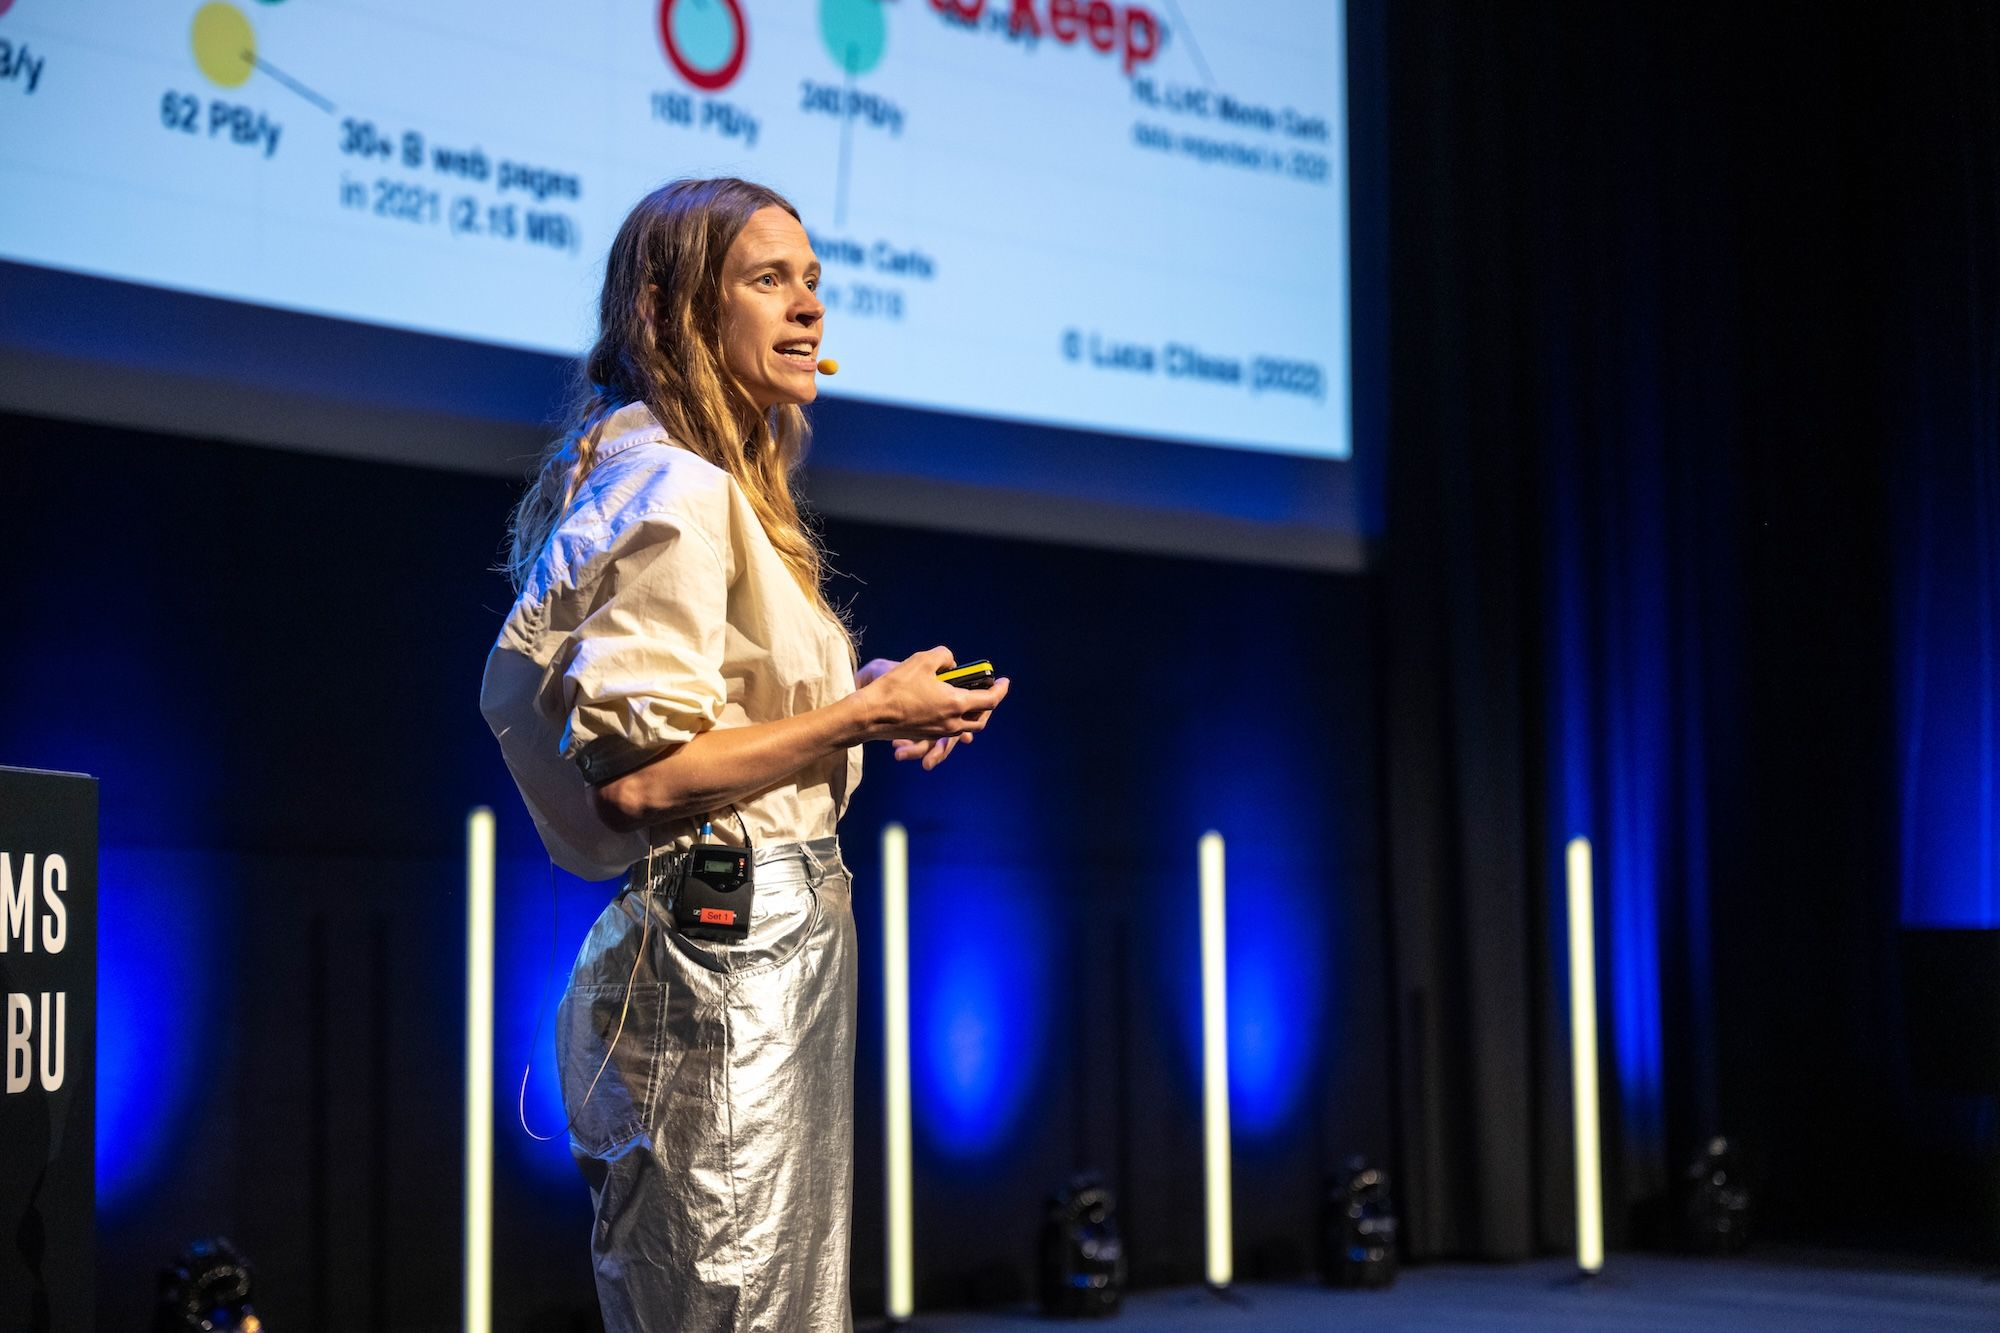
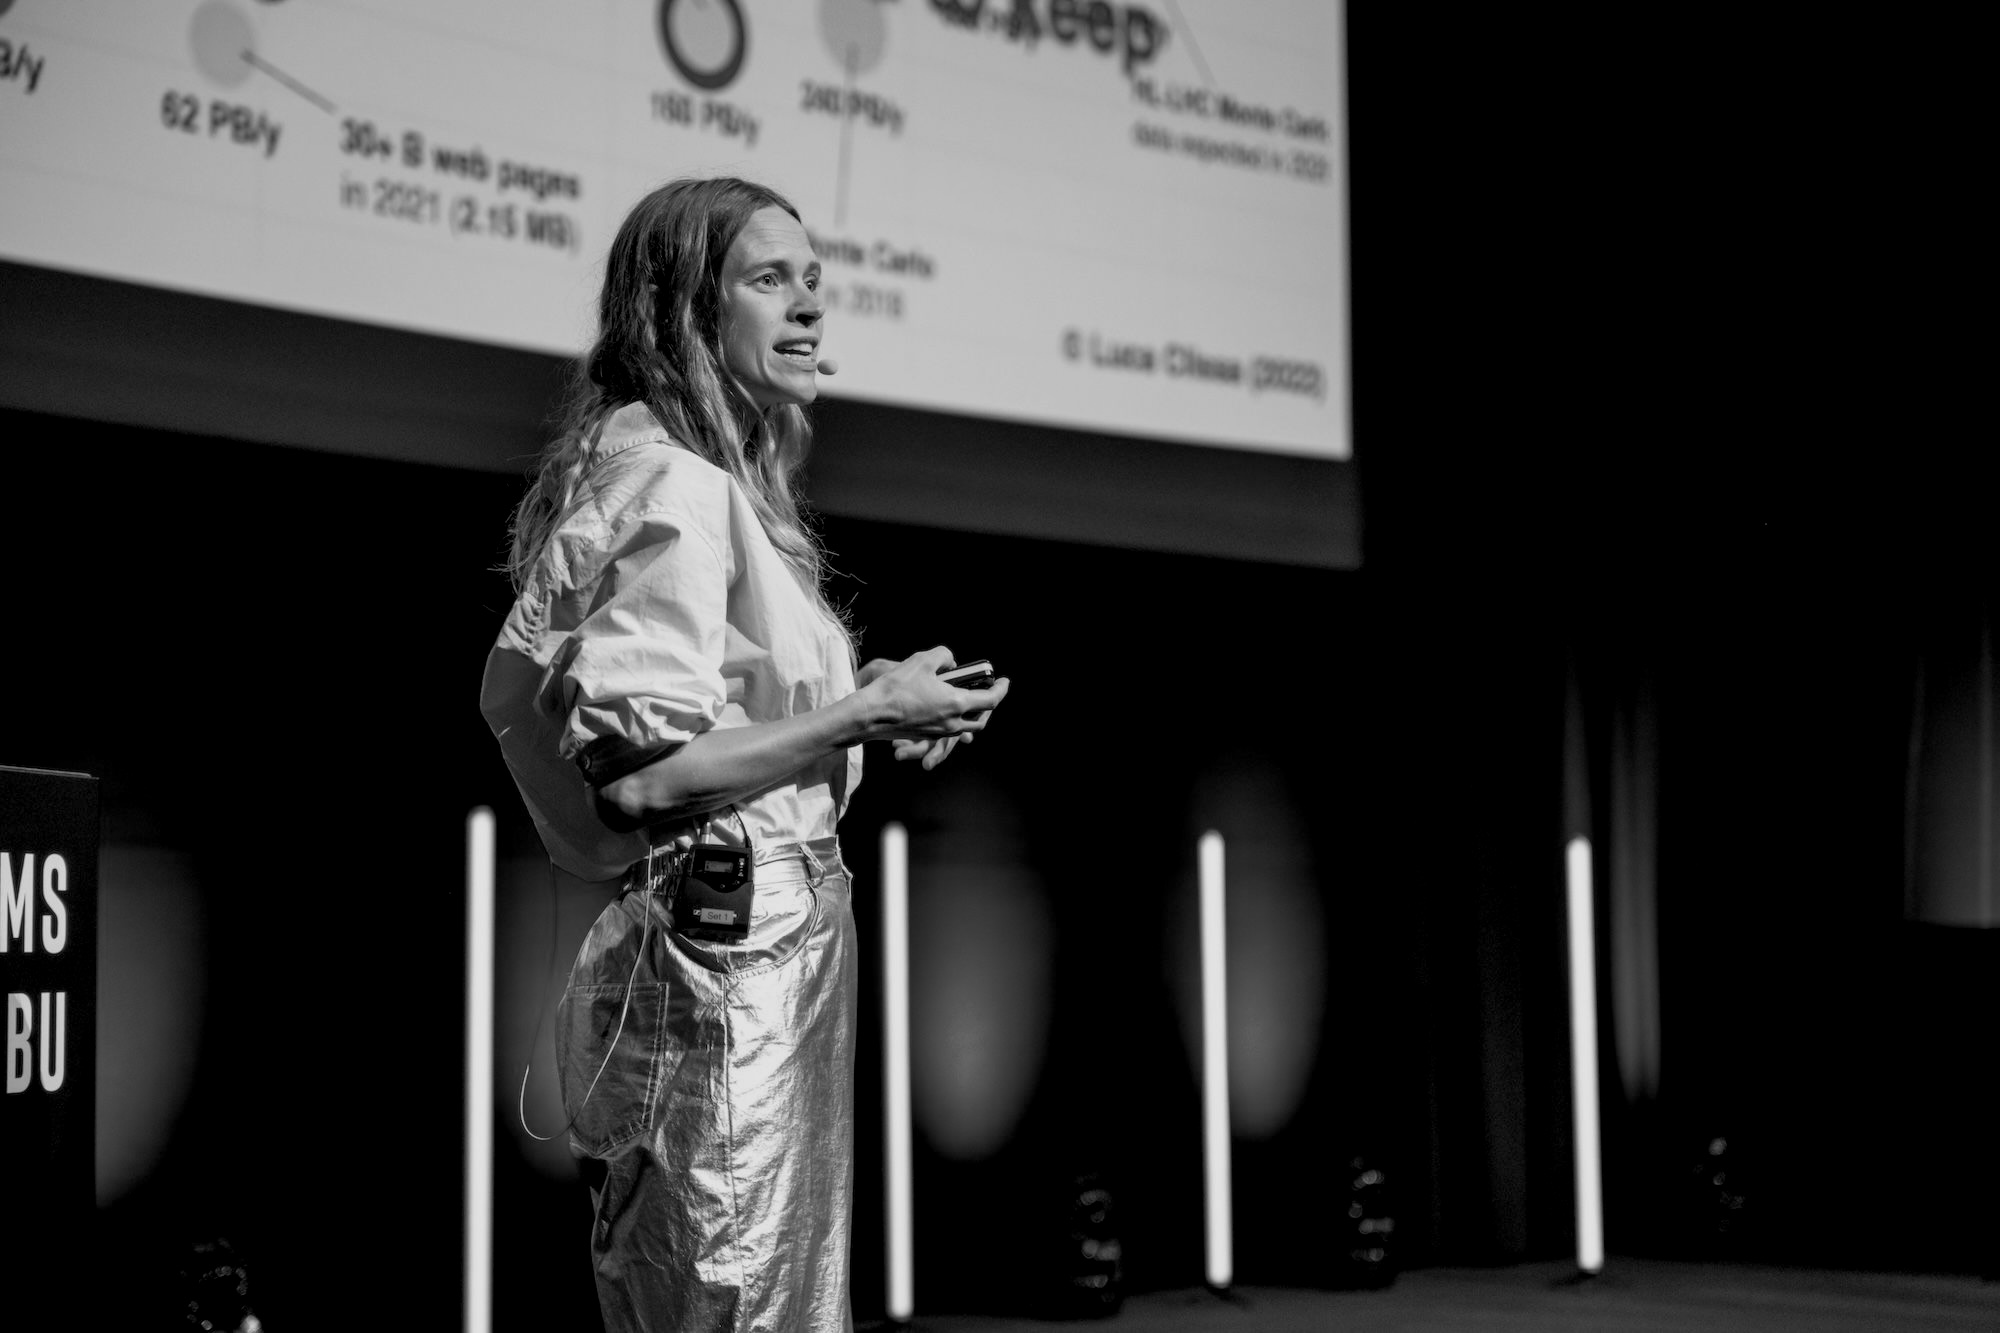
chaning colors

diff --git a/index.html b/index.html
@@ -33,16 +33,43 @@
 					<h2>About me</h2>
 				</header>
 				<p>
-					I am a particle physicst currently working as a senior research fellow at ETH Zurich and CERN. When I'm not buried in a book on the history of science or the philosophy of science,
-					I like to use Machine Learning to try to improve the way we collect and analyze data at the Large Hadron Collider.
-					My favorite topic is real-time Machine Learning, how we can use efficient ML to help us process enormous data rates (63 Tb/s) at LHC, within a latency of 12 microseconds (and often sub 100 ns!).
-					I also really like to think about, and develop, cool new methods for ML-based anomaly detection as a way of discovering New Physics (spoiler alert: haven't found anything yet!).
-					When I am not writing code or watching YouTube videos on Machine Learning, you can find me hunting for the nearest hill to go
-					<a href="https://utmb.world/runner/4471325.theaklaeboe.aarrestad">trail running</a>.
-					Working at a university, one of the things I value the most is to supervise students on projects, as well as give lectures and schools on ML and partice physics.
-					Don't be afraid to send me an e-mail (see below) if you have any questions or you would like to work together on a fun project!
-					<br /><br />
-				</p>
+          <p>
+  I am a particle physicist currently working as a senior research fellow at
+  <a href="https://ethz.ch/en.html" target="_blank" rel="noopener noreferrer">ETH Zurich</a>
+  and
+  <a href="https://home.cern/" target="_blank" rel="noopener noreferrer">CERN</a>.
+  When I’m not buried in a book on the history or philosophy of science, I like to use
+  Machine Learning to improve the way we collect and analyze data at the
+  <a href="https://home.cern/science/accelerators/large-hadron-collider" target="_blank" rel="noopener noreferrer">Large Hadron Collider</a>.
+</p>
+
+<p>
+  My favorite topic is <strong>real-time Machine Learning</strong>: how we can use efficient ML to process enormous data rates
+  (63 Tb/s!) at the LHC within a latency of 12 microseconds (and often sub-100 ns).
+  Yes, that’s faster than you can blink — several times over.
+</p>
+
+<p>
+  I also really enjoy developing ML-based <strong>anomaly detection</strong> methods as a way of discovering New Physics
+  (spoiler alert: haven’t found anything yet — but hope springs eternal).
+  Somewhere between physics, algorithms, and a healthy amount of V60 Geisha, I try to build tools that help us squeeze
+  every last bit of insight out of the universe’s smallest building blocks.
+</p>
+
+<p>
+  When I’m not writing code or watching YouTube videos about ML, you can usually find me hunting for the nearest hill
+  to go <a href="https://utmb.world/runner/4471325.theaklaeboe.aarrestad">trail running</a> — preferably in knee-deep mud.
+</p>
+
+<p>
+  Working at a university, one of the things I value most is supervising students and giving lectures and schools on ML
+  and particle physics. I’m always excited about new ideas, interdisciplinary collaborations, and ambitious student projects.
+</p>
+
+<p>
+  Don’t be afraid to <a href="mailto:thea.aarrestad@cern.ch">send me an email</a> if you have questions, want to collaborate on a fun project,
+  or just want to talk about physics, ML, or good trail-running shoes.
+</p>
 				<ul class="actions">
 					<li><a href="./CV.pdf" class="button">My CV</a></li>
 					<li><a href="https://codimd.web.cern.ch/s/KOdq-YKt1" class="button">Student projects</a></li>

diff --git a/assets/css/main.css b/assets/css/main.css
@@ -3258,3 +3258,46 @@ input[type="button"],
 #header a:hover {
   color: #fff !important;
 }
+
+/* =========================
+   LINK COLOR OVERRIDE
+   Stylish dark green
+   ========================= */
+
+/* Main link color (dark green) */
+a {
+  color: #1b5e20 !important;            /* deep, elegant green */
+  border-bottom-color: rgba(31, 111, 74, 0.45) !important;
+}
+
+/* Hover: a touch darker + cleaner underline */
+a:hover {
+  color: #1b5e20 !important;            /* darker on hover */
+  border-bottom-color: transparent !important;
+}
+
+/* Keyboard focus: accessible, subtle ring */
+a:focus-visible {
+  outline: 3px solid rgba(31, 111, 74, 0.25);
+  outline-offset: 3px;
+  border-bottom-color: transparent !important;
+}
+
+/* Visited: slightly muted so you can tell it’s been clicked */
+a:visited {
+  color: #185c3e !important;
+  border-bottom-color: rgba(24, 92, 62, 0.35) !important;
+}
+
+/* Keep footer/header areas readable as you already force white text */
+#header a,
+#footer .icons a {
+  color: rgba(255, 255, 255, 0.85) !important;
+  border-bottom-color: rgba(255, 255, 255, 0.35) !important;
+}
+
+#header a:hover,
+#footer .icons a:hover {
+  color: #fff !important;
+  border-bottom-color: transparent !important;
+}
